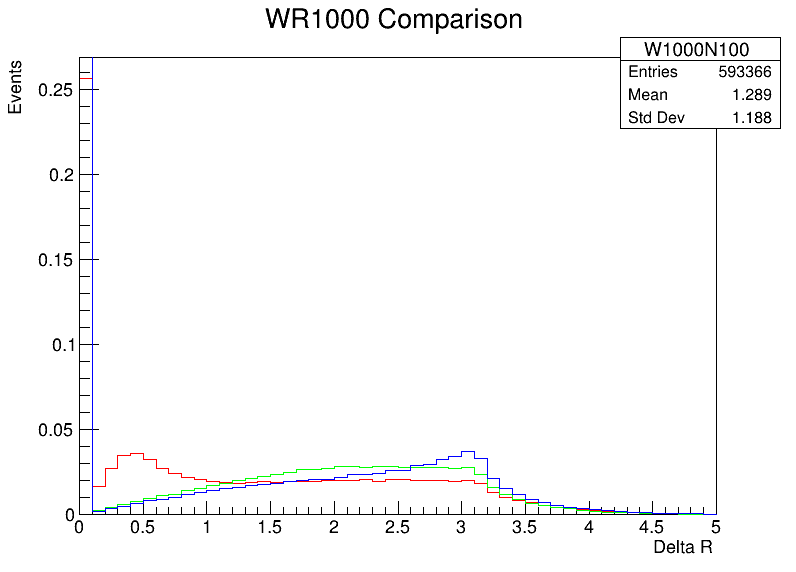
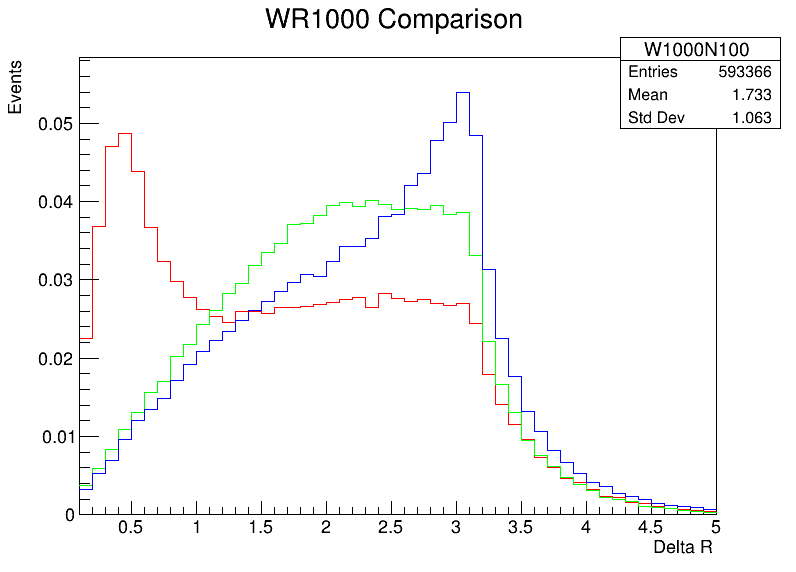
0.1 - 5 R

diff --git a/nano3/CMSSW_10_6_22/src/PhysicsTools/NanoAODTools/python/postprocessing/analyzer/analyzer/DeltaRplot/LHE_R/Merging.py b/nano3/CMSSW_10_6_22/src/PhysicsTools/NanoAODTools/python/postprocessing/analyzer/analyzer/DeltaRplot/LHE_R/Merging.py
@@ -39,7 +39,7 @@ combined_W4000N2000 = TH1F("W4000N2000", "W4000N2000", 50, 0, 5)
 combined_W4000N3900 = TH1F("W4000N3900", "W4000N3900", 50, 0, 5)
 
 
-
+gStyle.SetHistTopMargin(0.2)  # 히스토그램 위 여백 설정
 # 히스토그램 색상 설정
 combined_W1000N100.SetLineColor(kRed)
 combined_W1000N500.SetLineColor(kGreen)
@@ -204,6 +204,18 @@ def draw_histograms(canvas, hists, title):
     canvas.Update()
 
 ## 각 샘플 갯수 다르므로 noramlization
+combined_W1000N100.GetXaxis().SetRangeUser(0.1, 5)
+combined_W1000N500.GetXaxis().SetRangeUser(0.1, 5)
+combined_W1000N900.GetXaxis().SetRangeUser(0.1, 5)
+
+combined_W2000N100.GetXaxis().SetRangeUser(0.1, 5)
+combined_W2000N1000.GetXaxis().SetRangeUser(0.1, 5)
+combined_W2000N1900.GetXaxis().SetRangeUser(0.1, 5)
+
+combined_W4000N100.GetXaxis().SetRangeUser(0.1, 5)
+combined_W4000N2000.GetXaxis().SetRangeUser(0.1, 5)
+combined_W4000N3900.GetXaxis().SetRangeUser(0.1, 5)
+
 
 # WR1000 그룹 히스토그램 그리기
 combined_W1000N100.Scale(1/combined_W1000N100.Integral())
@@ -238,6 +250,7 @@ draw_histograms(
 )
 
 # 저장 및 출력
+# X축 범위 제한
 
 
 
